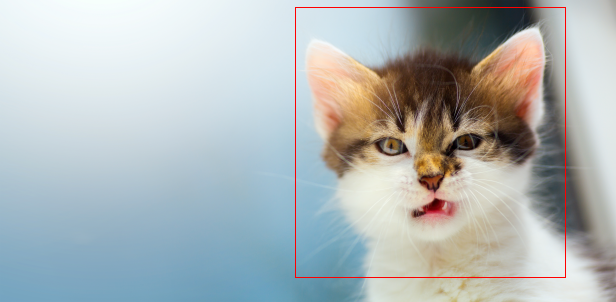
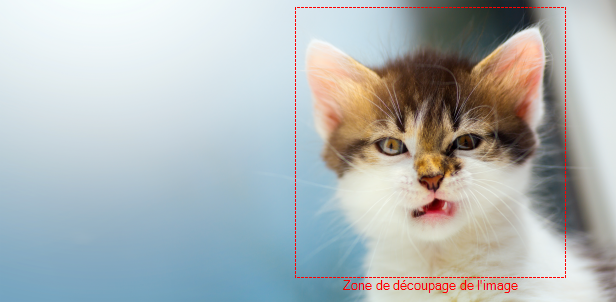
Dessiner du texte (fin)

Changed region(s): [[0.5552, 0.9238, 0.8328, 0.9834]]

diff --git a/src/Program.cs b/src/Program.cs
@@ -1,4 +1,5 @@
 using System.Drawing;
+using System.Drawing.Drawing2D;
 using System.Drawing.Imaging;
 using System.Runtime.Versioning;
 
@@ -11,10 +12,15 @@ namespace media_05
     {
       using var vignette = Image.FromFile("vignette-chat.png");
       using var gCadre = Graphics.FromImage(vignette);
+      using Pen crayon = new(Brushes.Red, 1) { DashStyle = DashStyle.Dash };
       Rectangle rcCadre = new(x: 295, y: 7, width: 270, height: 270);
+      using Font police = new(FontFamily.GenericSansSerif, 10, FontStyle.Regular);
+      using StringFormat centré = new() { Alignment = StringAlignment.Center };
 
-      gCadre.DrawRectangle(Pens.Red, rcCadre);
+      gCadre.DrawRectangle(crayon, rcCadre);
 
+      rcCadre.Y += rcCadre.Height;
+      gCadre.DrawString("Zone de découpage de l'image", police, Brushes.Red, rcCadre, centré);
       vignette.Save("cadre-chat.png", ImageFormat.Png);
     }
   }
